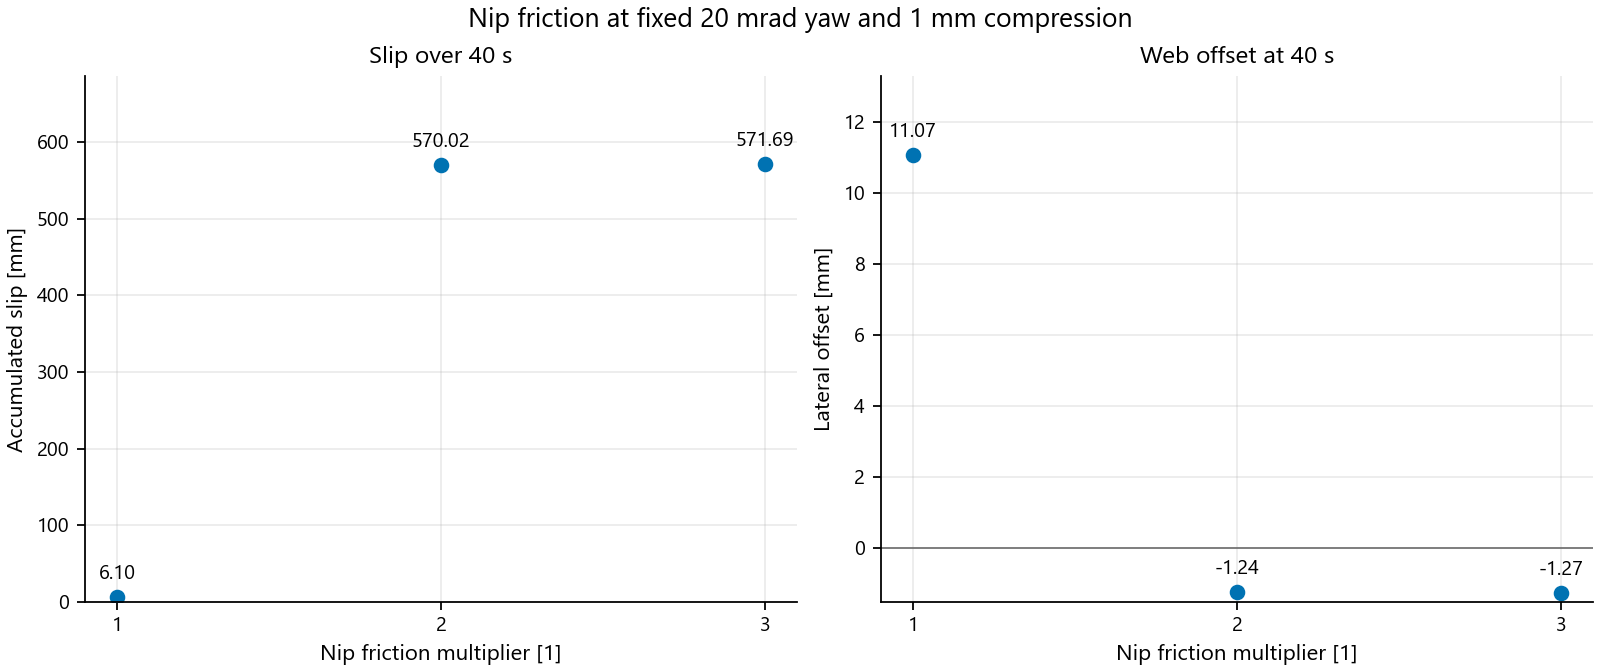
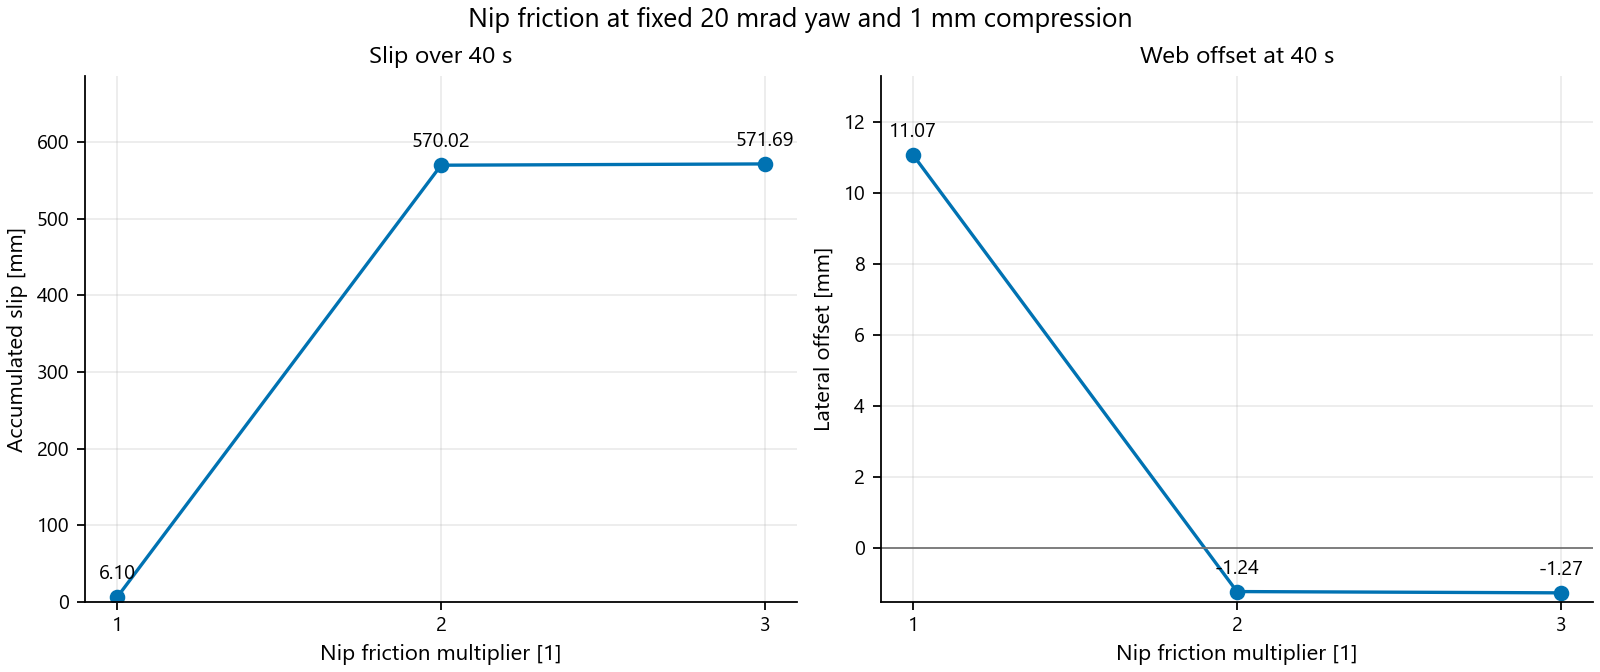
Update misaligned-idler post, notebook, script

diff --git a/R2RDynamics/misaligned-idler/notebook_utils.py b/R2RDynamics/misaligned-idler/notebook_utils.py
@@ -59,9 +59,9 @@ CASES = {
     "Yaw1.15": {"idlerYaw": 0.02, "idlerTram": 0},
     "Yaw2": {"idlerYaw": 2*DEG, "idlerTram": 0},
     "Yaw3": {"idlerYaw": 3*DEG, "idlerTram": 0},
-    "Tram1.15": {"idlerYaw": 0, "idlerTram": 0.02},
-    "Tram2": {"idlerYaw": 0, "idlerTram": 2*DEG},
-    "Tram3": {"idlerYaw": 0, "idlerTram": 3*DEG},
+    "Tram0.2": {"idlerYaw": 0, "idlerTram": 0.2*DEG},
+    "Tram0.4": {"idlerYaw": 0, "idlerTram": 0.4*DEG},
+    "Tram0.6": {"idlerYaw": 0, "idlerTram": 0.6*DEG},
     "Runout": {"idlerYaw": 0, "idlerTram": 0, "nipRunout": 0.3e-3},
 }
 # 40 s so the slow tension-loop ringing has settled before slip and offset
@@ -151,7 +151,7 @@ def plot_friction_result(run: dict[str, np.ndarray], destination: Path) -> Path:
 YAW_COLOURS = {
     "Yaw0": ALIGNED, "Yaw1.15": "#009e73", "Yaw2": "#0072b2", "Yaw3": "#d55e00",
 }
-TRAM_COLOURS = {"Tram1.15": "#009e73", "Tram2": "#0072b2", "Tram3": "#d55e00"}
+TRAM_COLOURS = {"Tram0.2": "#009e73", "Tram0.4": "#0072b2", "Tram0.6": "#d55e00"}
 RUNOUT_LABELS = {"Runout": "0.3 mm runout"}
 RUNOUT_COLOURS = {"Yaw0": ALIGNED, "Runout": "#d55e00"}
 
@@ -467,7 +467,7 @@ def summary_table(runs: dict[str, dict[str, np.ndarray]]) -> str:
 
 
 # ---------------------------------------------------------------------------
-# Nip-load sweep CLI -- produces the nip-load sweep figure
+# Nip-load sweep CLI (formerly nip_load_sweep.py) -- produces Figure 2
 # ---------------------------------------------------------------------------
 
 LOAD_SWEEP = ("BearingOnly", "Nip025", "Nip050", "Nip075", "Yaw1.15")
@@ -560,7 +560,7 @@ def main_load_sweep(argv: list[str] | None = None) -> None:
 
 
 # ---------------------------------------------------------------------------
-# Nip-friction sweep CLI -- produces the nip-friction sweep figure
+# Nip-friction sweep CLI (formerly nip_friction_sweep.py) -- produces Figure 6
 # ---------------------------------------------------------------------------
 
 FRICTION_SCALES = {"NipFriction1": 1.0, "NipFriction2": 2.0, "NipFriction3": 3.0}
@@ -691,7 +691,7 @@ def main_friction_sweep(argv: list[str] | None = None) -> None:
     )
     for ax, (key, label, title) in zip(axes, series):
         values = [row[key] for row in rows]
-        ax.plot(scales, values, "o", color="#0072b2")
+        ax.plot(scales, values, "o-", color="#0072b2")
         for scale, value in zip(scales, values):
             ax.annotate(
                 f"{value:.2f}", (scale, value), xytext=(0, 8),

diff --git a/R2RDynamics/misaligned-idler/misaligned-idler.md b/R2RDynamics/misaligned-idler/misaligned-idler.md
@@ -187,31 +187,33 @@ the cover.*
 
 *Figure 11. Asymmetric contact under a rigid, level housing.*
 
-At 1.15 degrees, centre-to-edge height change already reaches 6.6 mm
-against 1 mm centre compression, exceeding the contact approximation's
-useful quantitative range. The uncapped linear springs and rigid housing
-extrapolate forces and moments without nonlinear cover response, housing
-compliance or actuator force limiting.
+At the rigid housing's fixed centre-line distance, tram redistributes
+compression rather than relieving it: the raised end digs deeper into the
+cover while the lowered end lifts clear. Below about 0.17 degrees the face
+stays fully in contact and total load holds at the aligned 1000 N; past
+that, the shrinking footprint carries the same centre-line penetration
+over less width, and load climbs.
 
 ![Tram offset, approximate contact footprint, load and creep](images/MisalignedIdler/tram-sweep.png)
 
 *Figure 12. Tram shifts contact toward one end while reducing simulated
-creep. Forces extrapolated beyond the linear cover law's useful range
-are unsuitable for hardware sizing.*
+creep. Load rises as the footprint narrows, on a rigid,
+imposed-compression housing.*
 
-The calculated footprint narrows from 660 mm aligned to roughly
-350–380 mm on the raised side; its load resultant moves about 200 mm
-off centre. Implied housing moments of roughly 450–1050 N·m expose an
-asymmetric load path, rather than predict real housing loads. The
-underlying load itself reaches about 2200 to 4800 N, several times the
-1000 N cap that applies only to a force-controlled actuator, not this
-imposed-compression housing.
+At 0.2, 0.4 and 0.6 degrees, the footprint narrows from 660 mm aligned to
+617, 474 and 426 mm; the load resultant moves 124, 172 and 188 mm off
+centre. Nip load climbs from 1000 N aligned to 1006, 1187 and 1441 N: a
+rigid housing turns a fraction of a degree of tram into load 44% above
+the 1000 N actuator-force cap, without any change at the compression
+gauge. A compliant or self-aligning housing would cap this instead of
+letting it climb; this model has neither.
 
 Through the entering span, descending from the dancer at 34 degrees,
-tram steers toward the low end. Offsets settle between 5.8 and 15.2 mm,
-opposite to the yaw cases. Lower creep and higher total nip force therefore
-coexist with asymmetric contact and displacement in this idealized model.
-Neither reading establishes correct alignment.
+tram steers toward the low end. Offsets settle between -1.0 and -3.1 mm,
+opposite in sign and much smaller than the yaw cases. Lower creep and
+higher total nip force therefore coexist with asymmetric contact and
+displacement in this idealized model. Neither reading establishes correct
+alignment.
 
 ## Finding a Local Tension Disturbance
 
@@ -264,9 +266,9 @@ Each experiment separates a variable that a single reading conflates:
 - **Yaw** at 3 degrees lifts both face edges and drops measured load
   39% with the housing setting unchanged. The gauge reads the geometry,
   not the actuator.
-- **Tram** shifts the footprint to one end and moves the load resultant
-  about 200 mm off centre, creating a housing moment the load reading
-  never shows.
+- **Tram** shifts the footprint to one end, moves the load resultant up
+  to 188 mm off centre, and raises load 44% above the 1000 N aligned
+  reading at the same housing setting.
 - **Runout** leaves accumulated slip almost unchanged (5.92 versus
   5.80 mm) while nip load swings between 700 and 1300 N. The controlled
   upstream span sees 0.73 N of ripple against 9.7 N downstream.
